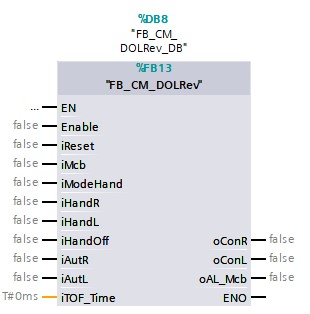
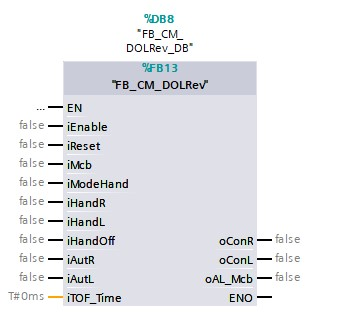
Added  Relay
- Reworked the subchapters
- Corrected a few mistakes
- Added subchapter 05 (Relay)

Changed region(s): [[0.0, 0.172, 0.9581, 0.9745], [0.3484, 0.0287, 0.6097, 0.2293], [0.3194, 0.2293, 0.6677, 0.3153]]

diff --git a/Ad06/Subchapter03.md b/Ad06/Subchapter03.md
@@ -1,25 +1,62 @@
-# Digital sensor
-A **digital sensor** (Ex.:limit switch, inductive sensor, capacitive sensor, tuning fork,...) processes mainly the presence of a product, object, person, etc. It has 2 conditions which indicate wether these products, objects or persons are preset or not.
+# Asynchronous motors
+## Asynchronous motor with set speed and one turnd irection
 
-Functionally seen these sensors monitor:
-- The correct automatic process wether or not with the needed delay (example, opening of a door with the help of a photcell after which the door stays open for a bit)
-- The protection against defects (example, overflow protection )
+With the current technology an asynchronous motor that only runs forward with a set speed can't operate without:
+- 1x motor circuit breaker
+- 1x contactor
 
-One can design a buildblock wherein all the above functionalities are processed. As a Consequently, this buildblock is the software repesentative of a digital sensor.
+![Object of a direct online motor ](../Ad06/Images/ObjectAsynchronousMotor.jpg)
 
-![S88 Example Digital Sensor ](../Ad06/Images/ObjectDigitalSensor.jpg)
+A **control module** for this type actuator is inseperable connected with a motor circuit breaker and a contactor. The control module shortly does the following:
+- If the thinkprocess(iAut) asks that the motor needs to run, the control module will let the motor run (oCon)
+- But if the motor circuit breaker (iMcb) is turned off the module won't let the motor run en it'll activate the alarm (ioAL_Mcb)
+- The motor will only start running again if the motor circuit breaker has been activated and the alarm reset has been reset(iReset)
 
-This buildblock belongs to the grop of **control modules** are provided with following functionalities:
--  The module will ensure that the sensor signal (iSen) wether or not delayed with a on-delay(iTON_Time) and/or a off-delay (iTOF_Time) for a correct operation, which then provides the output signal (oSen_TO)
-- In case the option alarm (iAL_Option) is enabled, the module will activate an alarm(ioAL_Sen) as soon as the sensor (iSen) is disabled. Taking into account the off-delay(iAL_Time).
-- If the sensor(iSen) isn't switched on anymore, the module will tur off the alarm(ioAL_Sen) as soon as it gets reset(iReset)
+One can expand the functionalities of the control module:
+- The motor will only run (oCon) if the module is in enable (iEnable)
+- If manual mode is activated (iModeHand), the module will ignore the request from the thinkprocess (iAut) and runs the motor whenever the manual signals are given (iHandOn & iHandOut)
+- If the motor needs to run (oCon) the module can start the motor with a on delay (iTON_Time) and/or a off delay(iTOF_Time)
 
-It is possible with the description to draft a operation scheme for the control module with the name FB_CM_DI_Sensor.
+It is possible with the description to draft a operation scheme for the control module with the name FB_CM_DOL.
 
-![operation scheme control module FB_CM_DI_Sensor ](../Ad06/Images/OperationschemeCMFB_CM_DI_Sensor.jpg)
+![Operationscheme for a direct online control module ](../Ad06/Images/OperationschemeFB_CM_DOL.jpg)
 
-This results into a "Function buildblock" which looks like the following images.
+The endresult is a "Function buildblock" which looks like the following images.
+
 | Text | Image |
-| --|---|
-| FDB example  | ![TIA image of control module FB_CM_DI_Sensor ](../Ad06/Images/TIA-FB_CM_DI_Sensor.jpg)  |
-| More simple example  | ![Simple image of control module FB_CM_DI_Sensor ](../Ad06/Images/SimpleFB_CM_DI_Sensor.jpg)  |
+|--|---|
+| FDB example  | ![TIA image of control module FB_CM_DOL](../Ad06/Images/TIA-FB_CM_DOL.jpg)  |
+| More simple example  | ![Simple image of control module FB_CM_DOL ](../Ad06/Images/SimpleFB_CM_DOL.jpg)  |
+
+## Asynchronous motor with set speed and two turn directions
+
+With the current technology an asynchronous motor that runs forward and backwards with a set speed can't operate without:
+- 1x motor circuit breaker
+- 2x contactor
+
+![Object of a direct online reverse motor ](../Ad06/Images/ObjectAsynchronousMotor2.jpg)
+
+A **control module** for this type actuator is inseperable connected with a motor circuit breaker and a contactor. The control module shortly does the following:
+- If the thinkprocess(iAutL) asks that the motor needs to run left, the control module will let the motor run left (oConL)
+- If the thinkprocess(iAutR) asks that the motor needs to run right, the control module will let the motor run right (oConR)
+- It is possible to run through a wait time(iTOF_Time) if it is requested to change turn direction
+- But if both directions are requested (left and right) the direction doesn't change and the motor will keep spinning the way it was before the request.
+- But if the motor circuit breaker (iMcb) is turned off the module won't let the motor run en it'll activate the alarm (ioAL_Mcb)
+- The motor will only start running again if the motor circuit breaker has been activated and the alarm reset has been reset(iReset)
+
+One can expand the functionalities of the control module:
+- The motor will only run (oConR & oConL) if the module is in enable (iEnable)
+- If manual mode is activated (iModeHand), the module will ignore the request from the thinkprocess (iAutR & iAutL) and runs the motor right(oConR) whenever the manual signal is given (iHandR)
+- If manual mode is activated (iModeHand), the module will ignore the request from the thinkprocess (iAutR & iAutL) and runs the motor left(oConL) whenever the manual signal is given (iHandL)
+- The control module won't change run condition if the mode changes from automatic mode (NOT iModeHand) to hand mode (iModeHand)
+
+It is possible with the description to draft a operation scheme for the control module with the name FB_CM_DOLRev
+
+![Operationscheme for a direct online reverse control module ](../Ad06/Images/OperationschemeFB_CM_DOLRev.jpg)
+
+The endresult is a "Function buildblock" which looks like the following images.
+
+| Text |Image |
+| :---:      | :----            |
+| FDB example  | ![TIA image of control module FB_CM_DOLRev](../Ad06/Images/TIA-FB_CM_DOLRev.jpg)  |
+| More simple example  | ![Simple image of control module FB_CM_DOLRev ](../Ad06/Images/SimpleFB_CM_DOLRev.jpg)  |

diff --git a/Ad06/Subchapter04.md b/Ad06/Subchapter04.md
@@ -1,23 +1,39 @@
-# Analog sensors
+# Valve
 
-It is possible to process for example: the current level of a liquid with a **analog sensor** in a programmable manager "sturing". It's needed to convert the number given to the correct SI-unit, this is because the current value isn't given in the correct SI-unit (ex. : mm). A unipolar sensor is only capable of converting a positive signal (ex. 0 .. 20mA, 4 .. 20mA, 0 .. 10 V, ...). A bipolar sensor processes both positive and negative signals (ex. -10V .. + 10 V).
+A valve is used to power compressed air or hydraulic actuators (ex. compressed air cylinder). The combination of a valve and actuator has a specific funcionality:
+- Monostable power circuit: In case there is a loss of power the actuator will automatically take its residual state (ex. single-acting compressed air cylinder)
+- Bistable power circuit: In case there is a loss of power the actuator will keep the last position (ex. double-acting compressed air cylinder)
+- Monostable control circuit:  In case there is a loss of power in the control circuit the valve will automatically take its residual state (ex. 3/2 valve with spring return)
+- Bistable control circuit: In case there is a loss of power in the control circuit the valve will automatically keep its last state (ex. 5/2 valve with electromagnetic control on both sides)
 
-An **control module** for this type sensors has the following tasks:
-- Converting the provided number (iSen) which is a mirror of the measured value, to a SI-unit (oX) whereby taking into account with unipolar and bipolar signals (iUniOption) and the max. (iHiLim) en min. (iLoLim) measure range of the analog sensor.
-- Making an alarm (ioAL_Sen) in case of a abnormal situation (ex. cablebreak or overcurrent)
-- If the abnormal situation is fixed will the module turn off the alarm as soon as it gets resetted (iReset)
+A **control module** for a valve will be build without taking into account the already existing functions of the combination valve - actuator. The control module will work following the bistable process.
 
-![Object of a analog sensor ](../Ad06/Images/ObjectAnalogSensor.jpg)
+**Why would you use a monostable valve and cylinder?**
 
-It is possible with the description to draft a operation scheme for the control module with the name FB_CM_AI_Sensor.
+During the design of a machine/installation one needs to ask themselves: What can go wrong during a unexpected event? How do i take care of potential risk to a human? Following the machine guidelines, no moving part of the machine or no single object that is held by the machine can be dropped or ejected. (2006/42/EG,2006)
 
-![Operation scheme control module FB_CM_AI_Sensor ](../Ad06/Images/OperationschemeCMFB_CM_AI_Sensor.jpg)
+Unexpected events like for example a fire, an accident, an earthquake, a flood, etc. can cause interruptions in the control- and/or power circuits. The interruption of these circuits can cause dangerous situations.
 
-Notice that the operationscheme is drafted for analog sensor that work following the Siemens principal, they have a normal range of 0 .. 27.648 / -27648 .. + 27648.
+_Example_
+
+Because of a fire in a technical room, the air compressor stopped working which has the side effect that there is no more compressed air. A robot that moves part of +/- 2 kg on highspeed is equipped with a pneumatic grabber "grijper". There is the danger that in case the compressed air falls away on the moment the robot moves at high speed, that the robot lets go of the object and basically trows away the object. This has the potential to hurt humans that work near the robot.
+
+In this situation one choses a monostable compressed air cylinder with spring return, this will keep the grabber "grijper" to remain closed in case the compressed air falls away.
+
+The functionality of this type control module:
+- The control module will work following a bistable principal;
+-  - In case the thinkprocess asks to activate the "+" side of the valve (iAut_1) the control module will do this (oVlv_1) and it will keep the condition in case the thinkprocess doesn't ask for it anymore, until the "-" side gets activated
+-  - In case the thinkprocess asks to activate the "-" side of the valve (iAut_0) the control module will do this (oVlv_0) and it will keep the condition in case the thinkprocess doesn't ask for it anymore, until the "+" side gets activated
+- The control module will only change the condition of the electromagnetic control in case this is allowed (iEnable)
+- If the hand mode is active (iModeHand) the control module ignores the thinkprocess signals (iAut_1 & iAut_0) and sends the valve (oVlv_1 & oVlv_0) commands based off the hand signals (iHand_1 & iHand_0)
+
+It is possible with the description to draft a operation scheme for the control module with the name FB_CM_Valve
+
+![Operationscheme for a valve ](../Ad06/Images/OperationschemeFB_CM_Vlv.jpg)
 
 The endresult is a "Function buildblock" which looks like the following images.
 
-| Text | Image |
-| --|---|--
-| FDB example  | ![TIA image of control module FB_CM_AI_Sensor ](../Ad06/Images/TIA-FB_CM_AI_Sensor.jpg)  |
-| More simple example  | ![Simple image of control module FB_CM_AI_Sensor ](../Ad06/Images/SimpleFB_CM_AI_Sensor.jpg)  |
+| Text |Image |
+| :---:      | :----            |
+| FDB example  | ![TIA image of control module FB_CM_Valve](../Ad06/Images/TIA-FB_CM_Valve.jpg)  |
+| More simple example  | ![Simple image of control module FB_CM_Vavle ](../Ad06/Images/SimpleFB_CM_Valve.jpg)  |

diff --git a/Ad06/Subchapter02.md b/Ad06/Subchapter02.md
@@ -1,18 +1,50 @@
-# Physical part - Control modules
-**Control modules** are software blocks that
-  - Process sensor inputsingals (%I)
-  - Activate / control output signals (%Q)
+# Sensors
+## Digital sensor
+A **digital sensor** (Ex.:limit switch, inductive sensor, capacitive sensor, tuning fork,...) processes mainly the presence of a product, object, person, etc. It has 2 conditions which indicate wether these products, objects or persons are preset or not.
 
-This way an control module gets represented of a certain type actuator or sensor and by preference gets included in the software library.
-Control modules are preferably progammed in "Function buildblocks" whereby, The TAG-naming gets expanded with the letters CM.
+Functionally seen these sensors monitor:
+- The correct automatic process wether or not with the needed delay (example, opening of a door with the help of a photcell after which the door stays open for a bit)
+- The protection against defects (example, overflow protection )
 
-_Examples_
-| Tag | Processing of a digital sensor  |
-|--|---|
-| FB_CM_DI_Sensor |  Processing of an digital sensor |
-| FB_CM_AI_Sensor | Processing of an analog sensor |
-| FB_CM_ASM_1R1S	| Controlling an asynchronous motor with 1 speed and 1 rotating direction   |
-| FB_CM_ASM_2R1S	   | Controlling an asynchronous motor with 1 speed and 2 rotating directions    |
-| FB_CM_Valve   | Controlling of an (pressurised air) valve  |
-| FB_CM_Relay   | Controlling of a relay |
-| FB_CM_Lamp  | Controlling of a (LED) lamp  |
+One can design a buildblock wherein all the above functionalities are processed. As a Consequently, this buildblock is the software repesentative of a digital sensor.
+
+![S88 Example Digital Sensor ](../Ad06/Images/ObjectDigitalSensor.jpg)
+
+This buildblock belongs to the grop of **control modules** are provided with following functionalities:
+-  The module will ensure that the sensor signal (iSen) wether or not delayed with a on-delay(iTON_Time) and/or a off-delay (iTOF_Time) for a correct operation, which then provides the output signal (oSen_TO)
+- In case the option alarm (iAL_Option) is enabled, the module will activate an alarm(ioAL_Sen) as soon as the sensor (iSen) is disabled. Taking into account the off-delay(iAL_Time).
+- If the sensor(iSen) isn't switched on anymore, the module will tur off the alarm(ioAL_Sen) as soon as it gets reset(iReset)
+
+It is possible with the description to draft a operation scheme for the control module with the name FB_CM_DI_Sensor.
+
+![operation scheme control module FB_CM_DI_Sensor ](../Ad06/Images/OperationschemeCMFB_CM_DI_Sensor.jpg)
+
+This results into a "Function buildblock" which looks like the following images.
+| Text | Image |
+| --|---|
+| FDB example  | ![TIA image of control module FB_CM_DI_Sensor ](../Ad06/Images/TIA-FB_CM_DI_Sensor.jpg)  |
+| More simple example  | ![Simple image of control module FB_CM_DI_Sensor ](../Ad06/Images/SimpleFB_CM_DI_Sensor.jpg)  |
+
+## Analog sensors
+
+It is possible to process for example: the current level of a liquid with a **analog sensor** in a programmable manager "sturing". It's needed to convert the number given to the correct SI-unit, this is because the current value isn't given in the correct SI-unit (ex. : mm). A unipolar sensor is only capable of converting a positive signal (ex. 0 .. 20mA, 4 .. 20mA, 0 .. 10 V, ...). A bipolar sensor processes both positive and negative signals (ex. -10V .. + 10 V).
+
+An **control module** for this type sensors has the following tasks:
+- Converting the provided number (iSen) which is a mirror of the measured value, to a SI-unit (oX) whereby taking into account with unipolar and bipolar signals (iUniOption) and the max. (iHiLim) en min. (iLoLim) measure range of the analog sensor.
+- Making an alarm (ioAL_Sen) in case of a abnormal situation (ex. cablebreak or overcurrent)
+- If the abnormal situation is fixed will the module turn off the alarm as soon as it gets resetted (iReset)
+
+![Object of a analog sensor ](../Ad06/Images/ObjectAnalogSensor.jpg)
+
+It is possible with the description to draft a operation scheme for the control module with the name FB_CM_AI_Sensor.
+
+![Operation scheme control module FB_CM_AI_Sensor ](../Ad06/Images/OperationschemeCMFB_CM_AI_Sensor.jpg)
+
+Notice that the operationscheme is drafted for analog sensor that work following the Siemens principal, they have a normal range of 0 .. 27.648 / -27648 .. + 27648.
+
+The endresult is a "Function buildblock" which looks like the following images.
+
+| Text | Image |
+| --|---|--
+| FDB example  | ![TIA image of control module FB_CM_AI_Sensor ](../Ad06/Images/TIA-FB_CM_AI_Sensor.jpg)  |
+| More simple example  | ![Simple image of control module FB_CM_AI_Sensor ](../Ad06/Images/SimpleFB_CM_AI_Sensor.jpg)  |

diff --git a/Ad06/Subchapter05.md b/Ad06/Subchapter05.md
@@ -1,28 +1,24 @@
-# Asynchronous motor with set speed and one turnd irection
+# Relay
 
-With the current technology an asynchronous motor that only runs forward with a set speed can't operate without:
-- 1x motor circuit breaker
-- 1x contactor
+A **relay** is often used to build up communication with:
+- Other PLC's via a potential-free contacts
+- Other devices like frequency controllers
 
-![Object of a direct online motor ](../Ad06/Images/ObjectAsynchronousMotor.jpg)
+![Object of a relay ](../Ad06/Images/ObjectRelay.jpg)
 
-A **control module** for this type actuator is inseperable connected with a motor circuit breaker and a contactor. The control module shortly does the following:
-- If the thinkprocess(iAut) asks that the motor needs to run, the control module will let the motor run (oCon)
-- But if the motor circuit breaker (iMcb) is turned off the module won't let the motor run en it'll activate the alarm (ioAL_Mcb)
-- The motor will only start running again if the motor circuit breaker has been activated and the alarm reset has been reset(iReset)
+Just like a asynchronous motor can one assign multiple functionalities to the corresponding control module such as:
+- If the thinkprocess asks to activate the realy (iAut), the relay will be activated (oRel)
+- The relay will only be activated if this is enabled (iEnable)
+- If hand mode (iModeHand) is activated then will the module ignore the thinkprocess's signal (iAut) and activates the relay based on the handsignals
+- If it's asked to activate the relay, the module has the possibility to activate a rise delay (iTON_Time) and/or drop-out delay (iTOF_Time)
 
-One can expand the functionalities of the control module:
-- The motor will only run (oCon) if the module is in enable (Enable)
-- If manual mode is activated (iModeHand), the module will ignore the request from the thinkprocess (iAut) and runs the motor whenever the manual signals are given (iHandOn & iHandOut)
-- If the motor needs to run (oCon) the module can start the motor with a on delay (iTON_Time) and/or a off delay(iTOF_Time)
+It is possible with the description to draft a operation scheme for the control module with the name FB_CM_Relay
 
-It is possible with the description to draft a operation scheme for the control module with the name FB_CM_DOL.
-
-![Operationscheme for a direct online control module ](../Ad06/Images/OperationschemeFB_CM_DOL.jpg)
+![Operationscheme FB_CM_Relay ](../Ad06/Images/OperationschemeFB_CM_Relay.jpg)
 
 The endresult is a "Function buildblock" which looks like the following images.
 
-| Text | Image |
-|--|---|
-| FDB example  | ![TIA image of control module FB_CM_DOL](../Ad06/Images/TIA-FB_CM_DOL.jpg)  |
-| More simple example  | ![Simple image of control module FB_CM_DOL ](../Ad06/Images/SimpleFB_CM_DOL.jpg)  |
+| Text |Image |
+| :---:      | :----            |
+| FDB example  | ![TIA image of control module FB_CM_Relay](../Ad06/Images/TIA-FB_CM_Relay.jpg)  |
+| More simple example  | ![Simple image of control module FB_CM_Relay ](../Ad06/Images/SimpleFB_CM_Relay.jpg)  |

diff --git a/Ad06/Subchapter01.md b/Ad06/Subchapter01.md
@@ -46,3 +46,22 @@ The following chapters describe different buildblocks that are included in the s
 |        ![Negative flank ](../Ad06/Images/Nflank.jpg)     | Negative flank signal                                                                                                       |
 
 The operationscheme gets drawn up so that every incoming signal is as far to the left as possible and all output signals are to the right. Connections are wether or not drawn with dotted lines (with crossing lines) to avoid confusion.
+
+# Physical part - Control modules
+**Control modules** are software blocks that
+  - Process sensor inputsingals (%I)
+  - Activate / control output signals (%Q)
+
+This way an control module gets represented of a certain type actuator or sensor and by preference gets included in the software library.
+Control modules are preferably progammed in "Function buildblocks" whereby, The TAG-naming gets expanded with the letters CM.
+
+_Examples_
+| Tag | Processing of a digital sensor  |
+|--|---|
+| FB_CM_DI_Sensor |  Processing of an digital sensor |
+| FB_CM_AI_Sensor | Processing of an analog sensor |
+| FB_CM_ASM_1R1S	| Controlling an asynchronous motor with 1 speed and 1 rotating direction   |
+| FB_CM_ASM_2R1S	   | Controlling an asynchronous motor with 1 speed and 2 rotating directions    |
+| FB_CM_Valve   | Controlling of an (pressurised air) valve  |
+| FB_CM_Relay   | Controlling of a relay |
+| FB_CM_Lamp  | Controlling of a (LED) lamp  |
